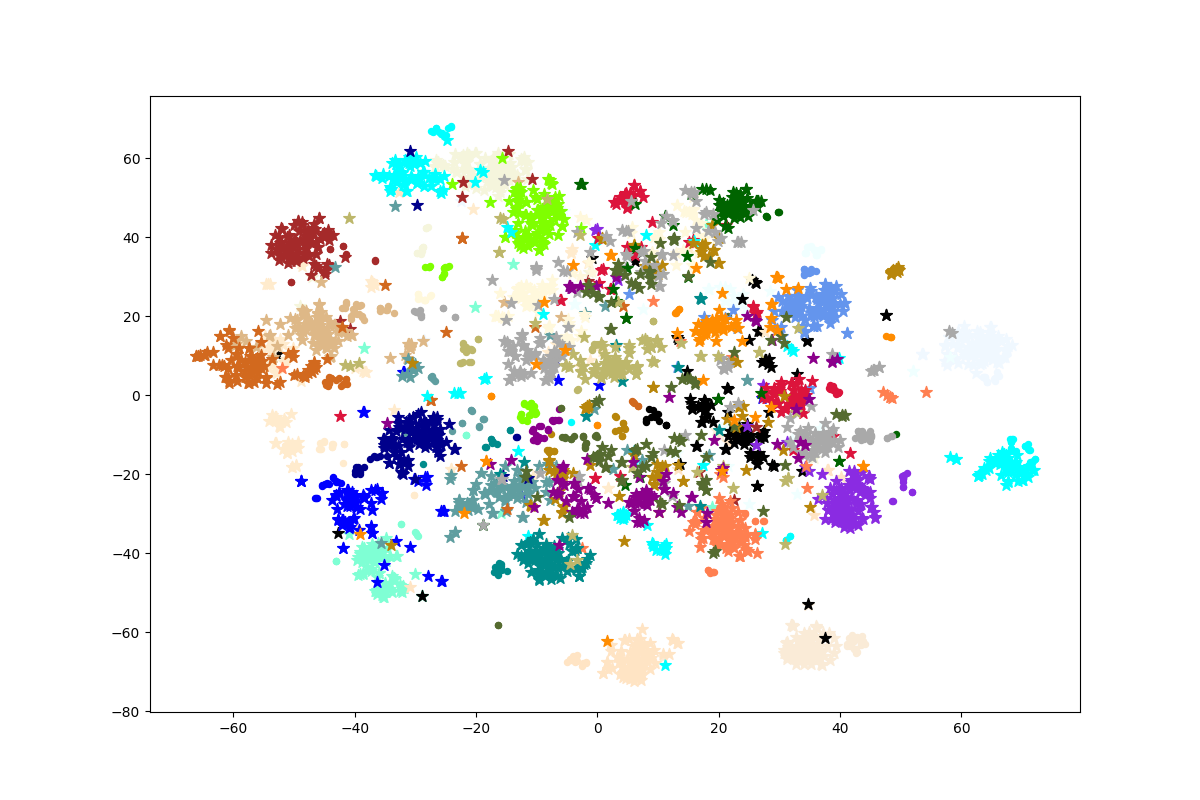
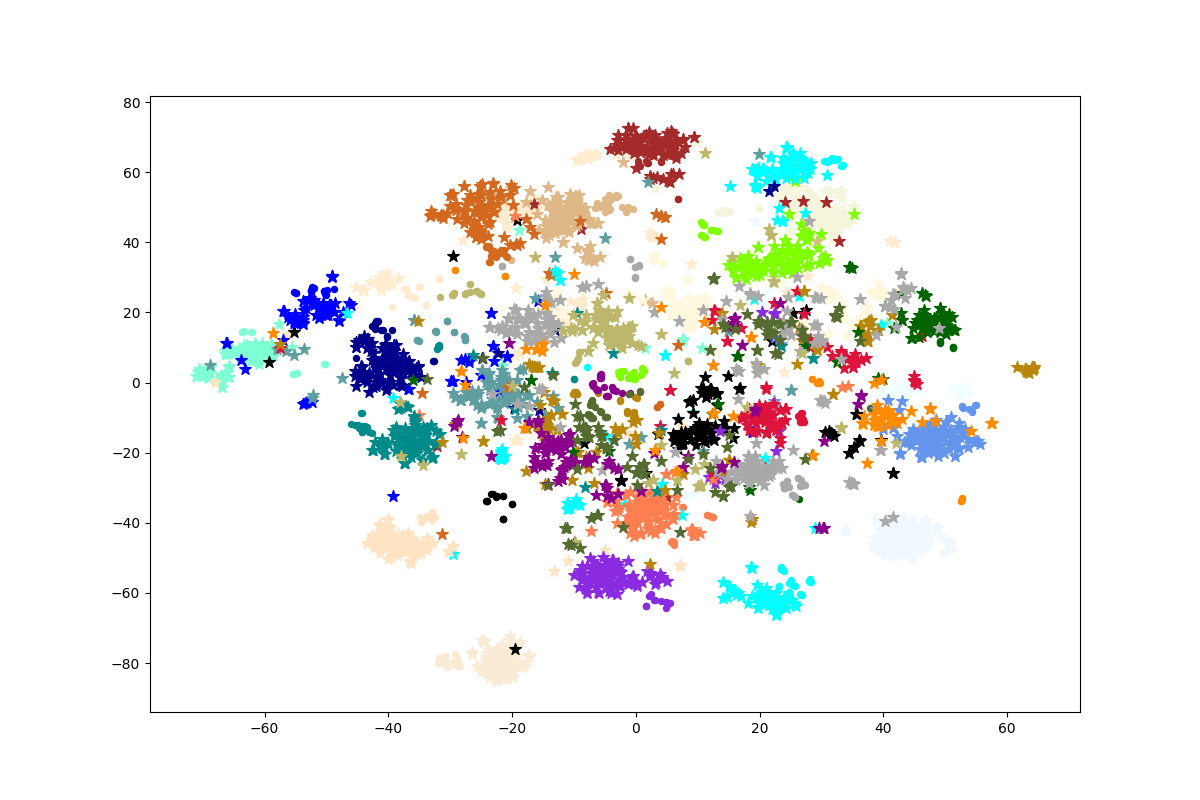
Fixed BatchNorm switching

diff --git a/domainadaptation/experiment/can.py b/domainadaptation/experiment/can.py
@@ -149,7 +149,9 @@ class CANExperiment(Experiment):
         source_masked_generator.set_mask(np.ones(len(source_labeled_dataset)))
         target_masked_generator.set_mask(np.ones(len(target_labeled_dataset)))
         
+        self.__switch_batchnorm_mode('source')
         source_features, source_labels = get_features_and_labels(backbone, iter(source_masked_generator), 100000)
+        self.__switch_batchnorm_mode('target')
         target_features, target_labels = get_features_and_labels(backbone, iter(target_masked_generator), 100000)
         
         visualizer = Visualizer(
